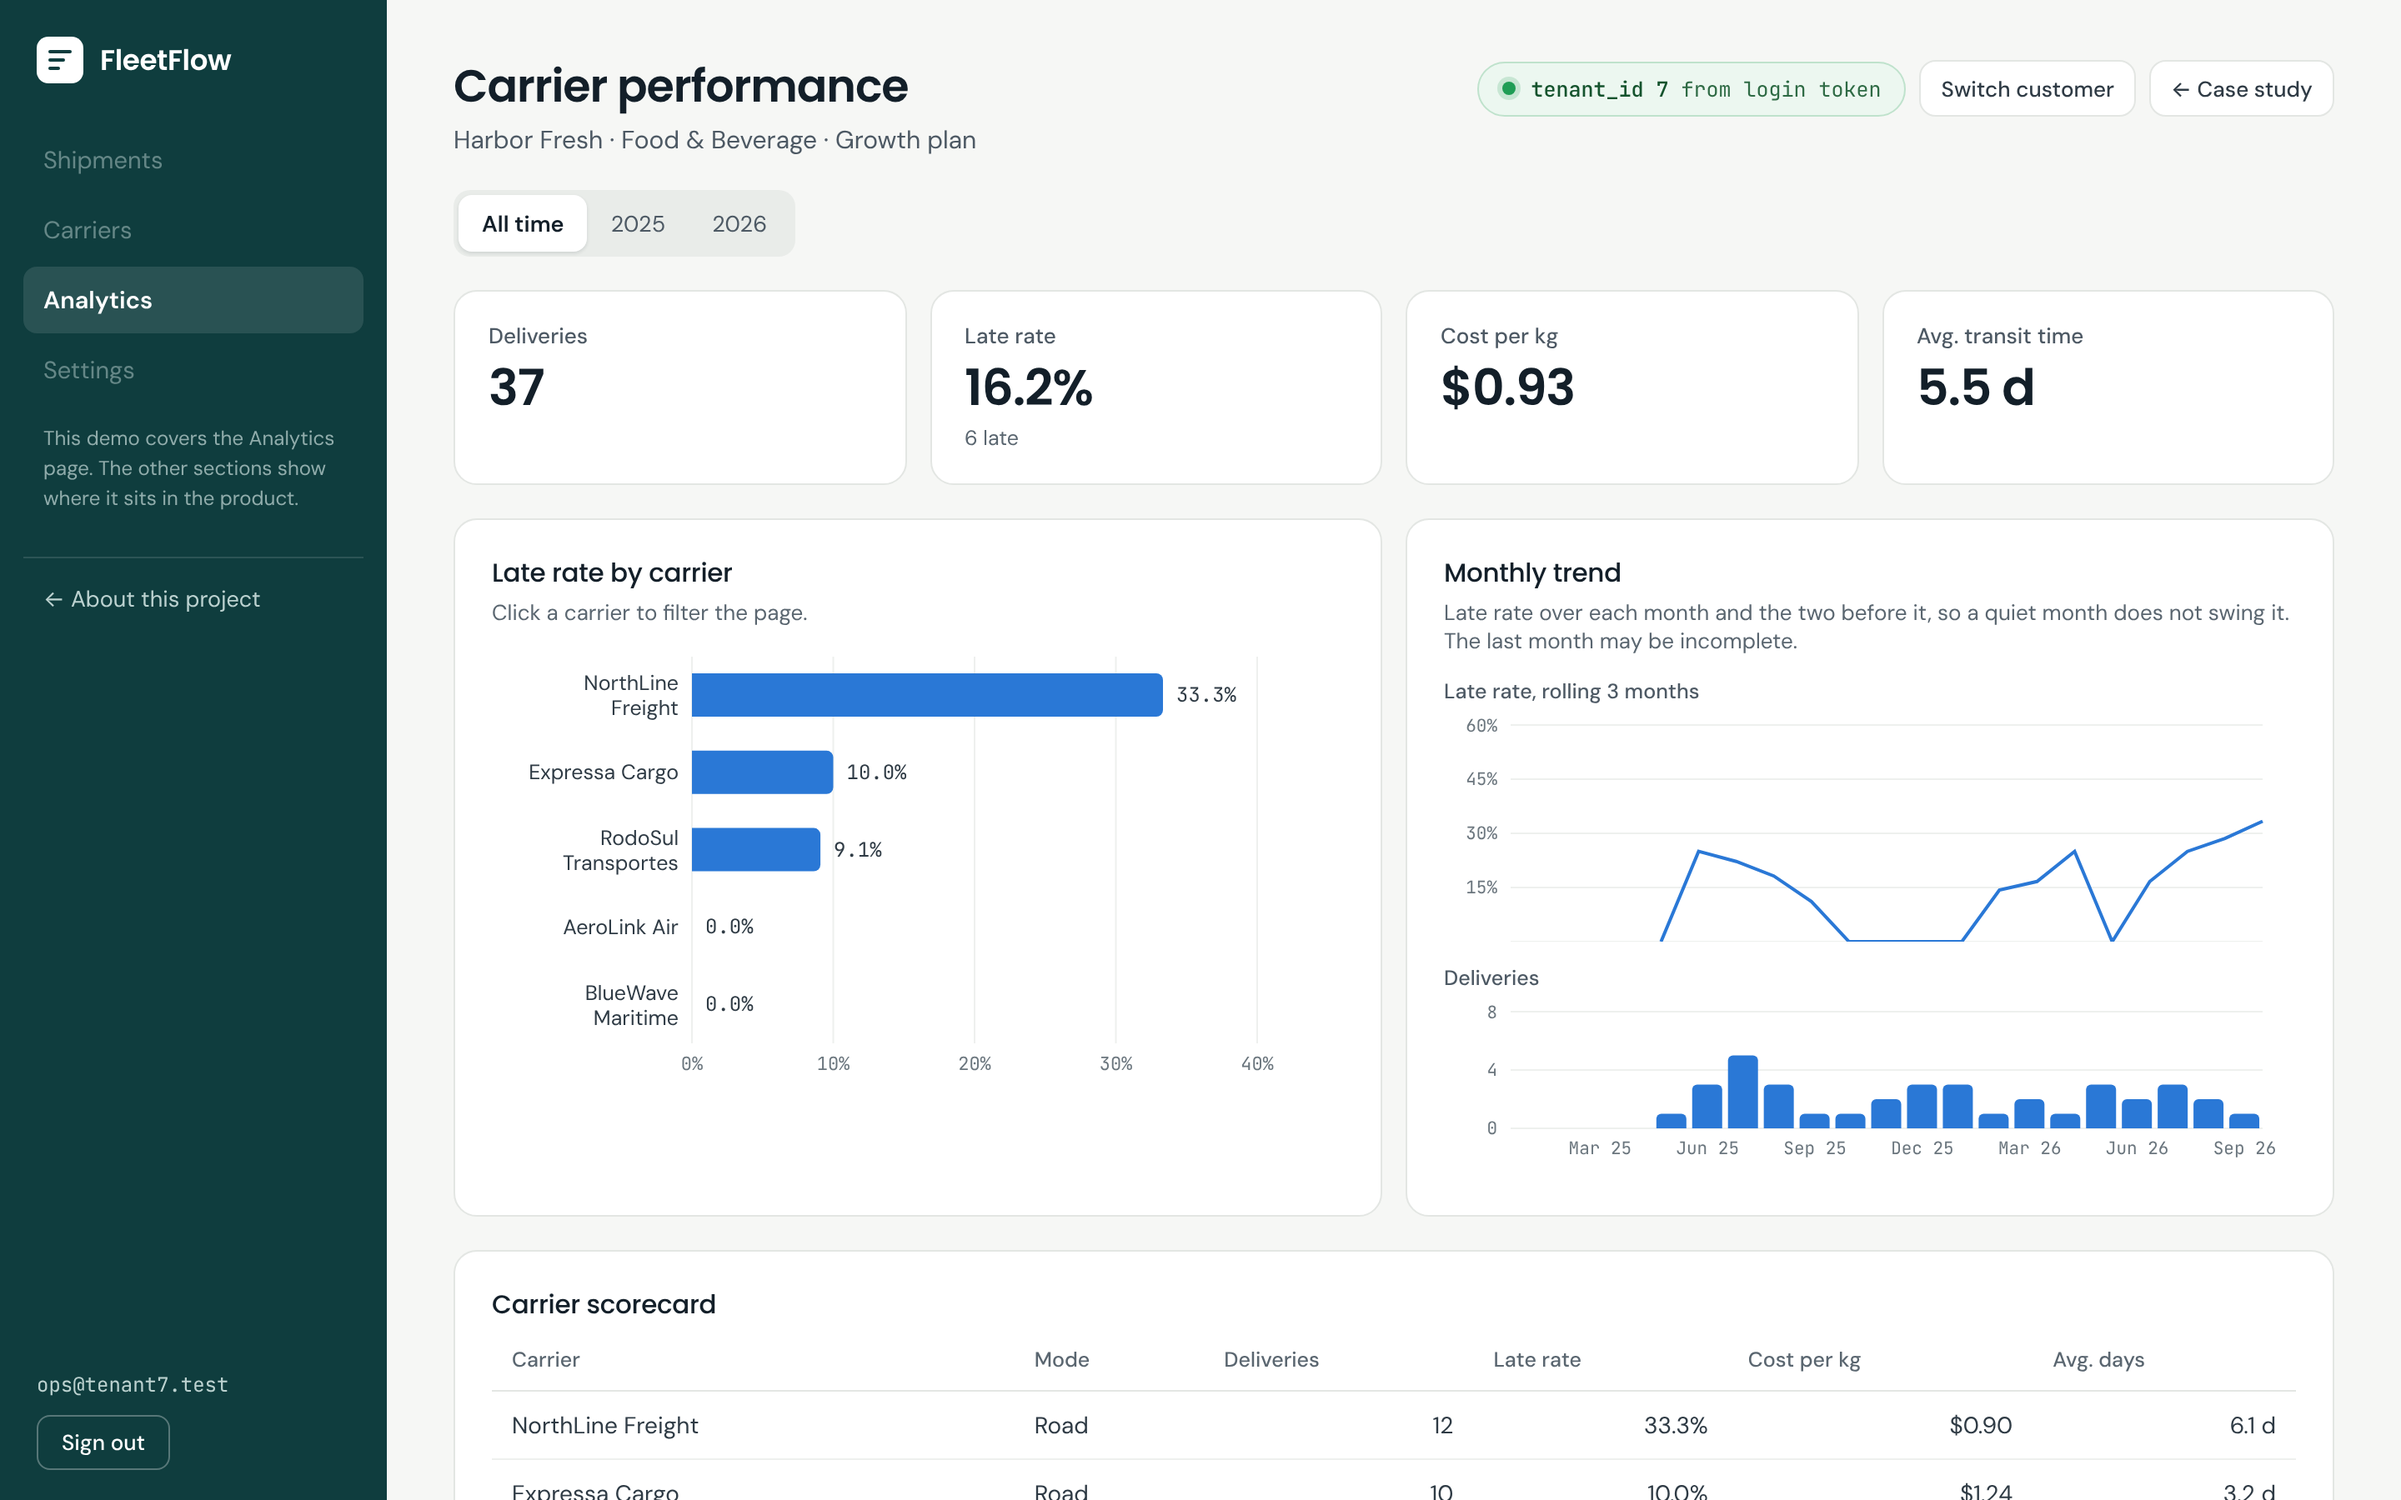
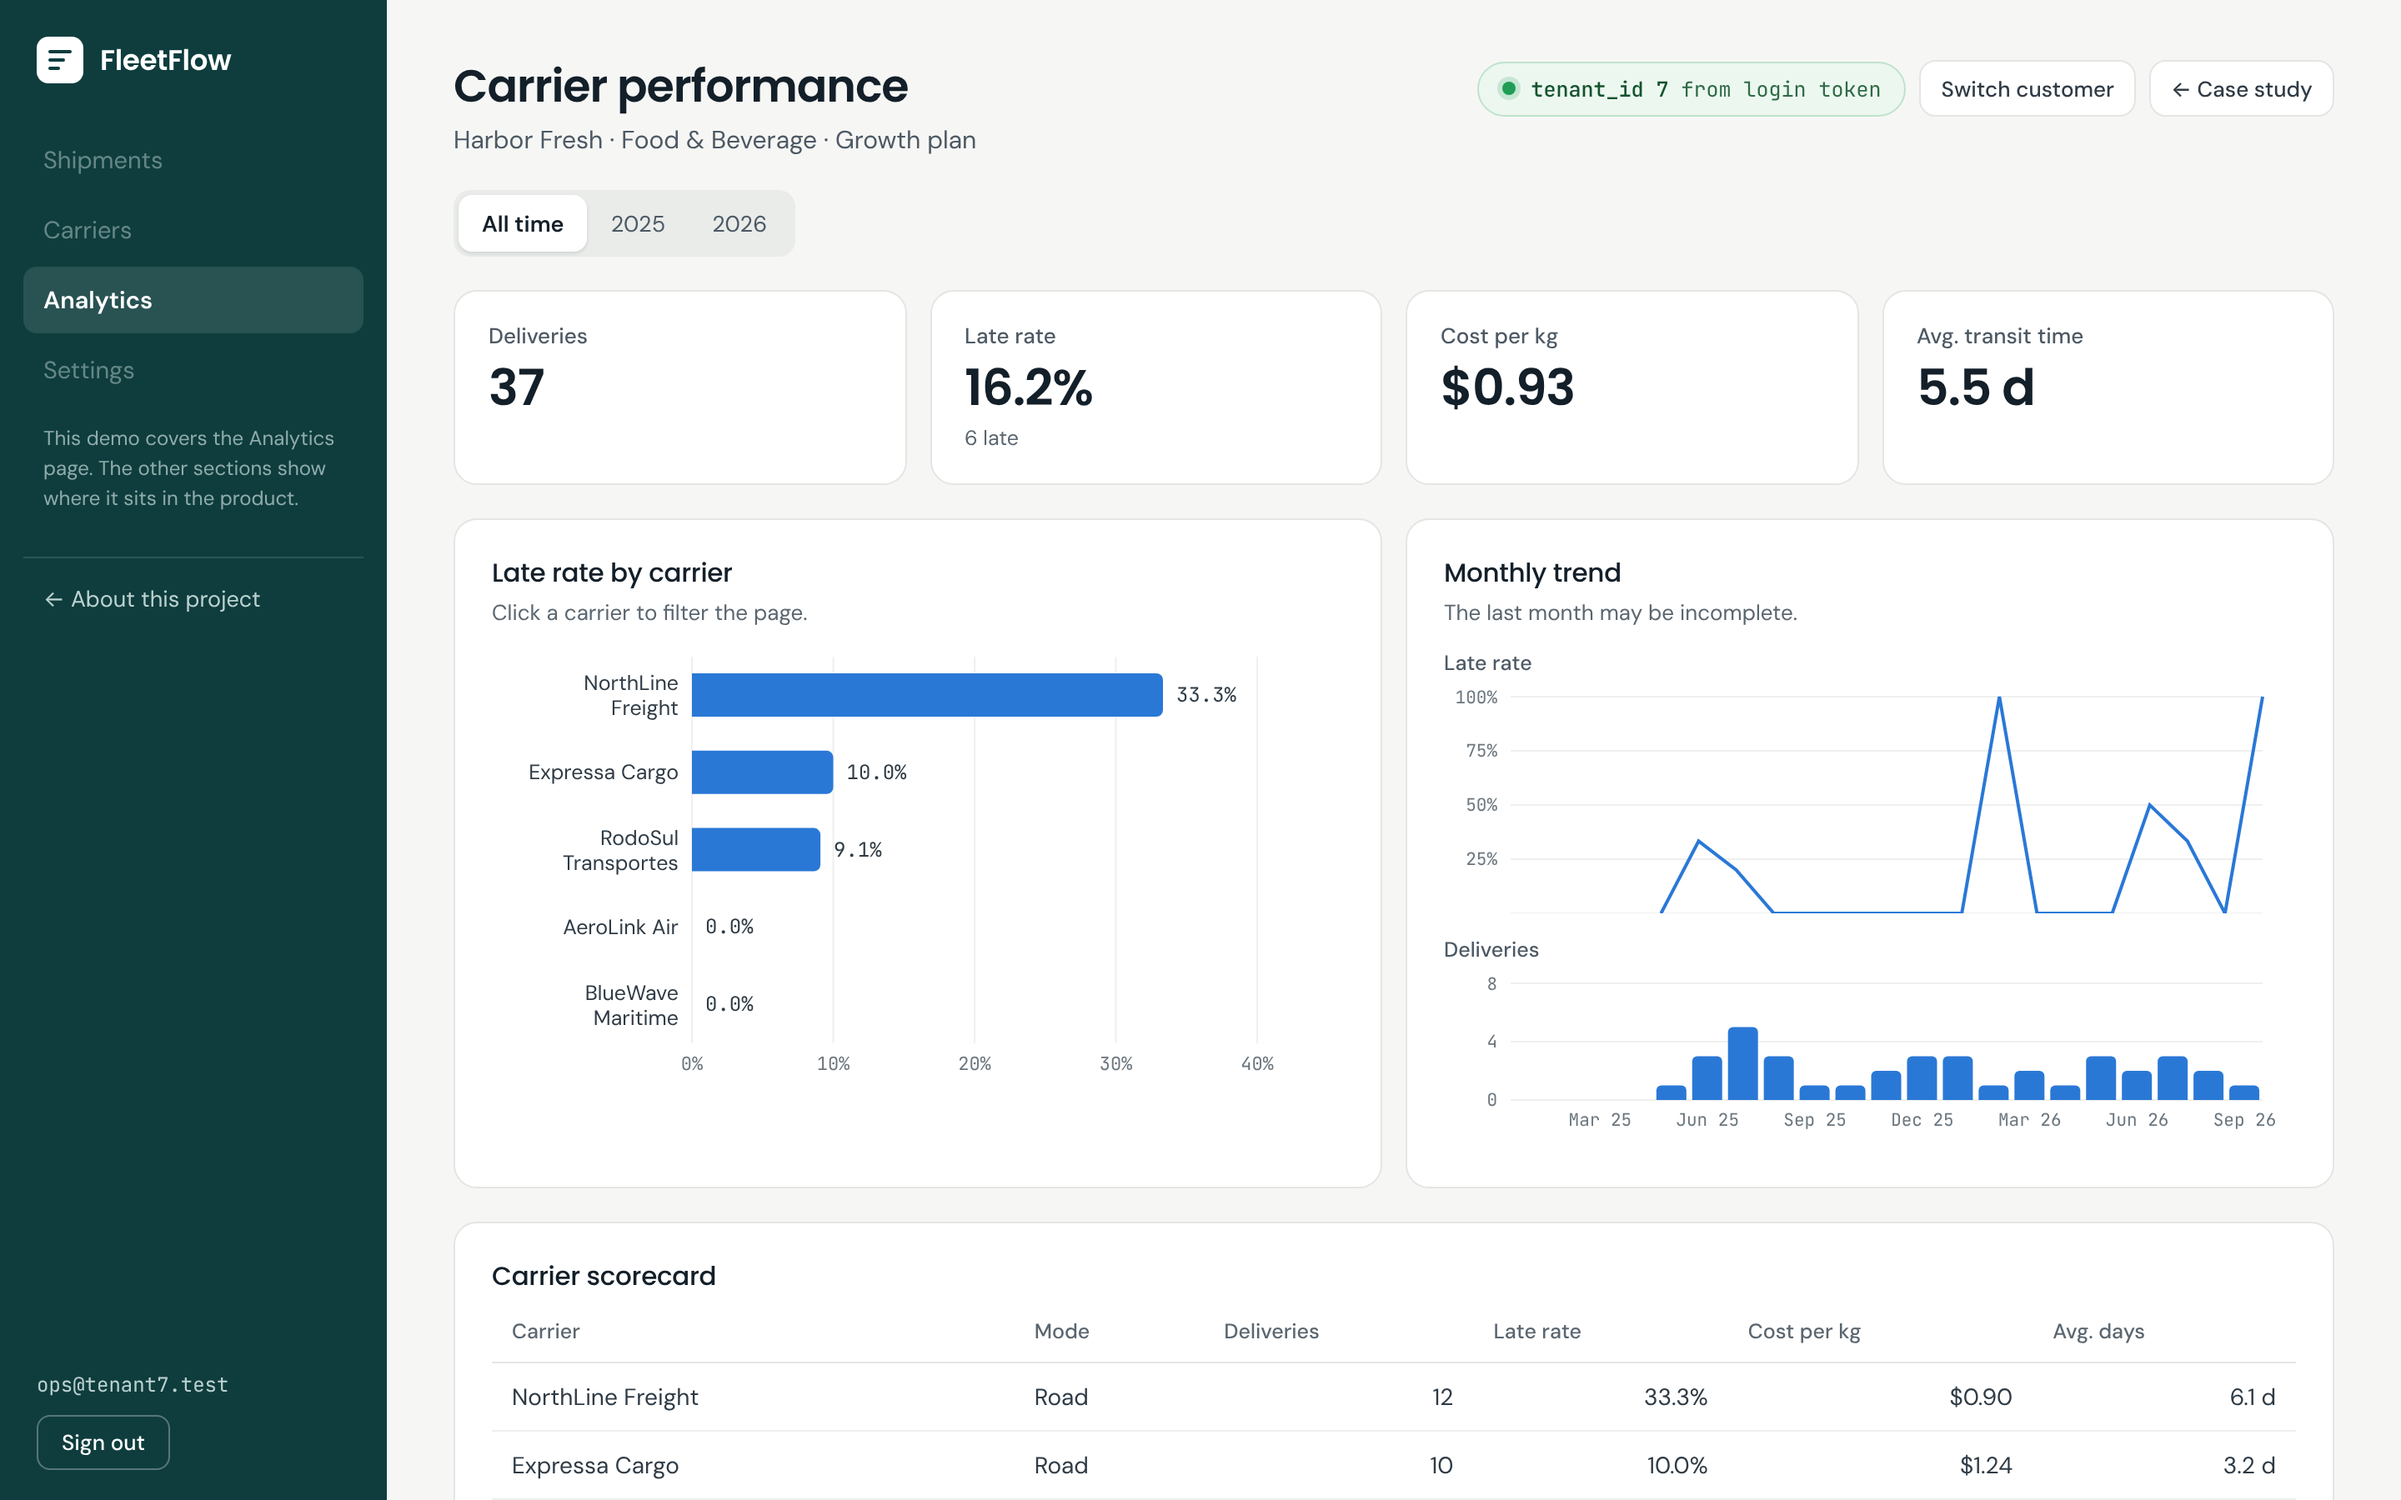
Go back to the monthly late rate
A monthly rate is easier to read, and the deliveries bars right below
show how few shipments a spike stands on. Keeps the fix that stops the
last month label from being clipped on phones.

Claude-Session: https://claude.ai/code/session_01Nik49F6jDDU4GLT7pApr7H

diff --git a/src/components/Charts.jsx b/src/components/Charts.jsx
@@ -85,25 +85,14 @@ export function CarrierChart({ rows, selected, onSelect }) {
 // They share a syncId, so hovering one highlights the same month in both.
 export function TrendCharts({ rows }) {
   const narrow = useNarrow()
-  // The line is a 3-month rolling late rate: late deliveries over deliveries
-  // in the month and the two before it (SUM / SUM). Customers ship only a few
-  // loads a month, so a single month swings between 0% and 100% on one delivery.
-  const data = rows.map((m, i) => {
-    const window = rows.slice(Math.max(0, i - 2), i + 1)
-    const late = window.reduce((a, r) => a + r.late, 0)
-    const deliveries = window.reduce((a, r) => a + r.deliveries, 0)
-    return {
-      ...m,
-      rollLate: late,
-      rollDeliveries: deliveries,
-      rate: deliveries ? (100 * late) / deliveries : null,
-      count: m.deliveries || null,
-    }
-  })
-  // A point with empty windows on both sides has no line segment, so it gets a dot.
-  data.forEach((d, i) => {
-    d.lone = d.rate != null && data[i - 1]?.rate == null && data[i + 1]?.rate == null
-  })
+  const data = rows.map((m, i) => ({
+    ...m,
+    rate: m.deliveries ? m.latePct : null,
+    count: m.deliveries || null,
+    // A month with empty months on both sides: the line has no segment there,
+    // so it gets a small dot instead of disappearing.
+    lone: Boolean(m.deliveries) && !rows[i - 1]?.deliveries && !rows[i + 1]?.deliveries,
+  }))
   const maxRate = Math.max(0, ...data.map(d => d.rate ?? 0))
   const rateTop = maxRate <= 60 ? 60 : 100
   const rateTicks = rateTop === 60 ? [0, 15, 30, 45, 60] : [0, 25, 50, 75, 100]
@@ -117,7 +106,7 @@ export function TrendCharts({ rows }) {
 
   return (
     <div className="trend">
-      <div className="mini-title">Late rate, rolling 3 months</div>
+      <div className="mini-title">Late rate</div>
       <ResponsiveContainer width="100%" height={136}>
         <LineChart data={data} margin={margin} syncId="trend">
           <CartesianGrid vertical={false} stroke={GRID} />
@@ -130,12 +119,14 @@ export function TrendCharts({ rows }) {
                 render={m => (
                   <>
                     <strong>{fmt.month(m.month)}</strong>
-                    <span>{fmt.int(m.deliveries)} deliveries this month</span>
-                    {m.rollDeliveries ? (
-                      <span>
-                        Late rate, 3 months {fmt.pct(m.rate)} ({fmt.int(m.rollLate)} of {fmt.int(m.rollDeliveries)})
-                      </span>
-                    ) : null}
+                    {m.deliveries ? (
+                      <>
+                        <span>Late rate {fmt.pct(m.latePct)}</span>
+                        <span>{fmt.int(m.late)} late of {fmt.int(m.deliveries)}</span>
+                      </>
+                    ) : (
+                      <span>No deliveries</span>
+                    )}
                   </>
                 )}
               />

diff --git a/src/components/Dashboard.jsx b/src/components/Dashboard.jsx
@@ -126,7 +126,7 @@ export default function Dashboard({ user, onSignOut }) {
                 )}
               </div>
               <div className="card">
-                <CardHead title={`Monthly trend${carrierName ? ` · ${carrierName}` : ''}`} sub="Late rate over each month and the two before it, so a quiet month does not swing it. The last month may be incomplete." />
+                <CardHead title={`Monthly trend${carrierName ? ` · ${carrierName}` : ''}`} sub="The last month may be incomplete." />
                 {empty ? <Empty /> : <TrendCharts rows={view.months} />}
               </div>
             </section>
